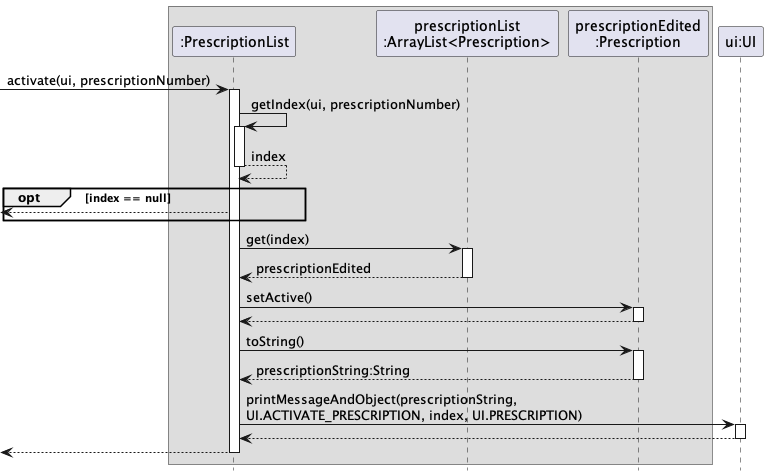
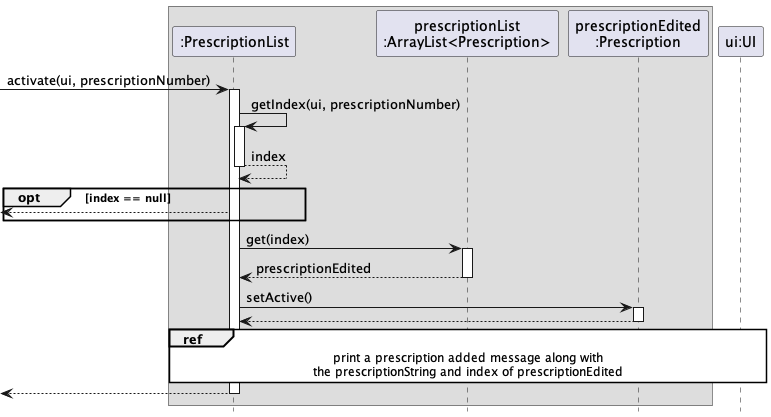
Add edit prescription sequence diagram and further simply other diagrams

Changed region(s): [[0.0, 0.0, 1.0, 0.9976], [0.7812, 0.6235, 0.8438, 0.6859]]

diff --git a/docs/DeveloperGuide.md b/docs/DeveloperGuide.md
@@ -103,6 +103,7 @@ all active prescriptions with the specified `patientId`
 specified index
 * `activatePrescription` - This method allows user to set the prescription of specified index as active.
 * `deactivatePrescription` - This method allows user to set the prescription of specified index as inactive.
+* `loadPrescription` - This method assists the `Storage` component to load prescriptions from the .txt storage.
 
 **Members in `Prescription` class**
 
@@ -117,12 +118,24 @@ Users are allowed to add new prescriptions. The action works as follows:
 
 1. When `PrescriptionList` is called to add a new prescription with the given details, it calls the constructor of the 
 `Prescription` class to create the `Prescription` instance.
-2. If the new prescription has no duplicates in the `prescriptionList`, then it is then added to the list. And
-`UI` prints an acknowledgement message of what the new prescription has.
-3. Else, `UI` prints a message that the prescription is already existing, and print the details of the existing 
+2. If the new prescription has no duplicates in the `prescriptionList`, then it is added to the list. And
+`ui` prints an acknowledgement message of what the new prescription has.
+3. Else, `ui` prints a message that the prescription is already existing, and print the details of the existing 
 prescription.
 
 ![](images/PrescriptionListAdd.png)
+
+#### Editing a prescription
+Users are allowed to edit the medicine name, dosage and time interval of the prescription. However, it is only allowed
+if the updated prescription does not repeat other existing prescriptions. The action works as follow:
+
+1. When the `edit` function is called, it returns if the `prescriptionNumber` is invalid.
+2. If `prescriptionNumber` is valid, `prescriptionEdited` is retrieved from the `ArrayList<>`, and `newPrescription` 
+object is created to represent the updated prescription.
+3. If `newPrescription` has a duplicate in the list, it returns with a prescription duplicated message from `ui`.
+4. If not, then `prescriptionEdited` is updated with a confirmation message from `ui`.
+
+![](images/PrescriptionListEdit.png)
 
 #### Activating / Deactivating a prescription
 Users are allowed to activate or deactivate a prescription to track whether a prescription is currently being prescribed
